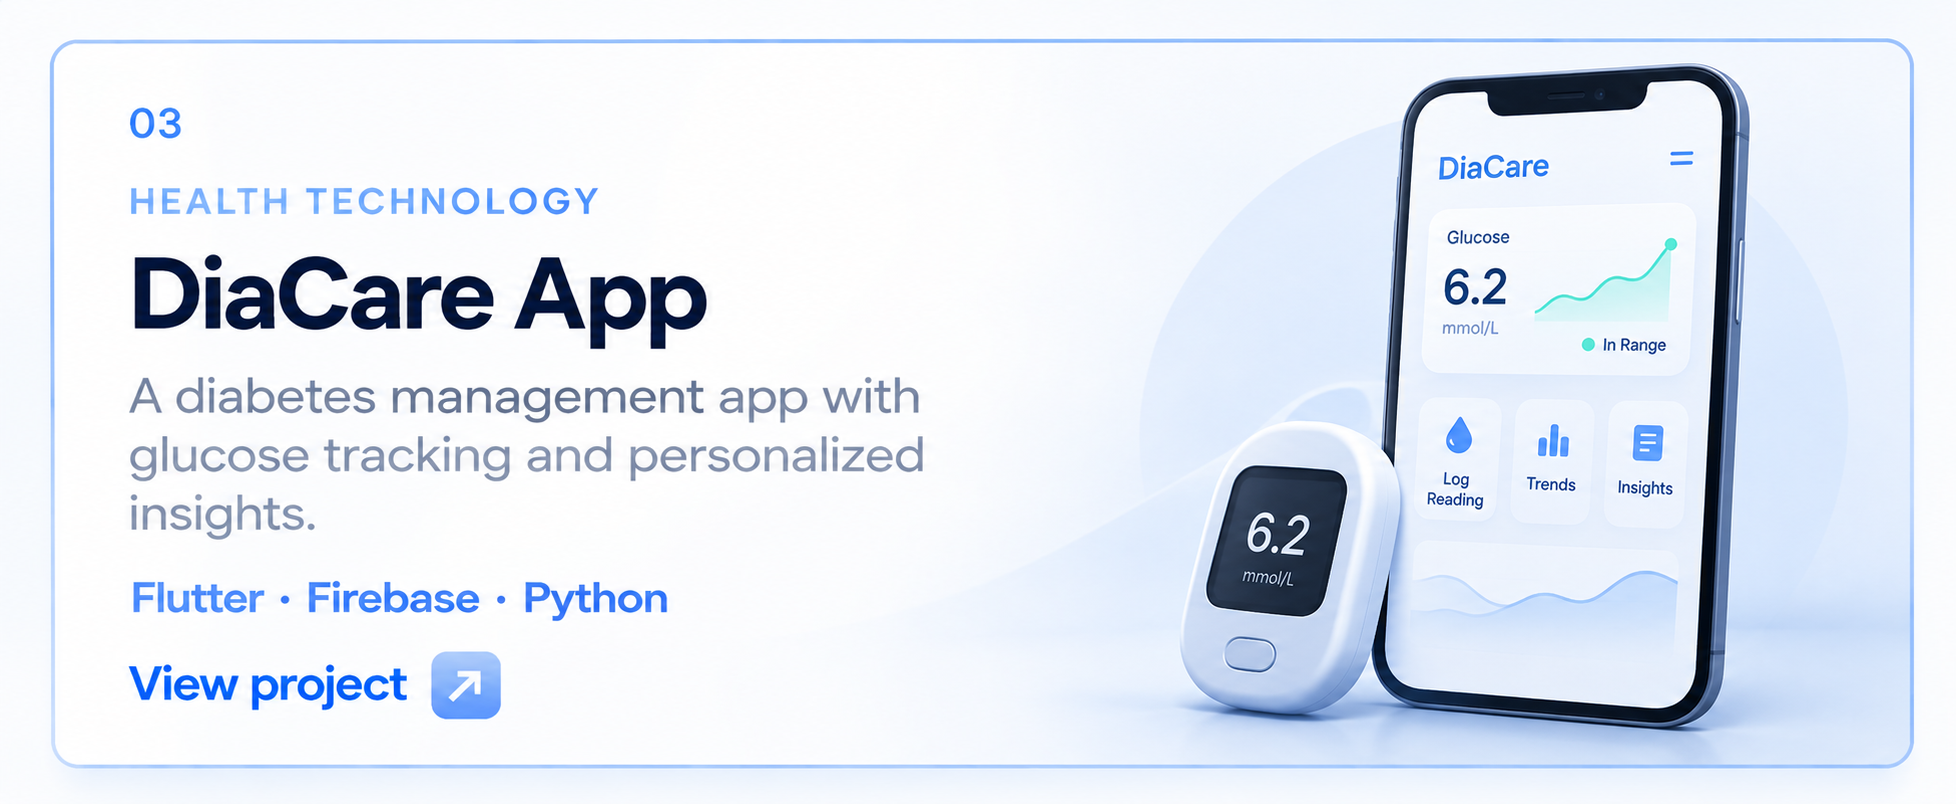
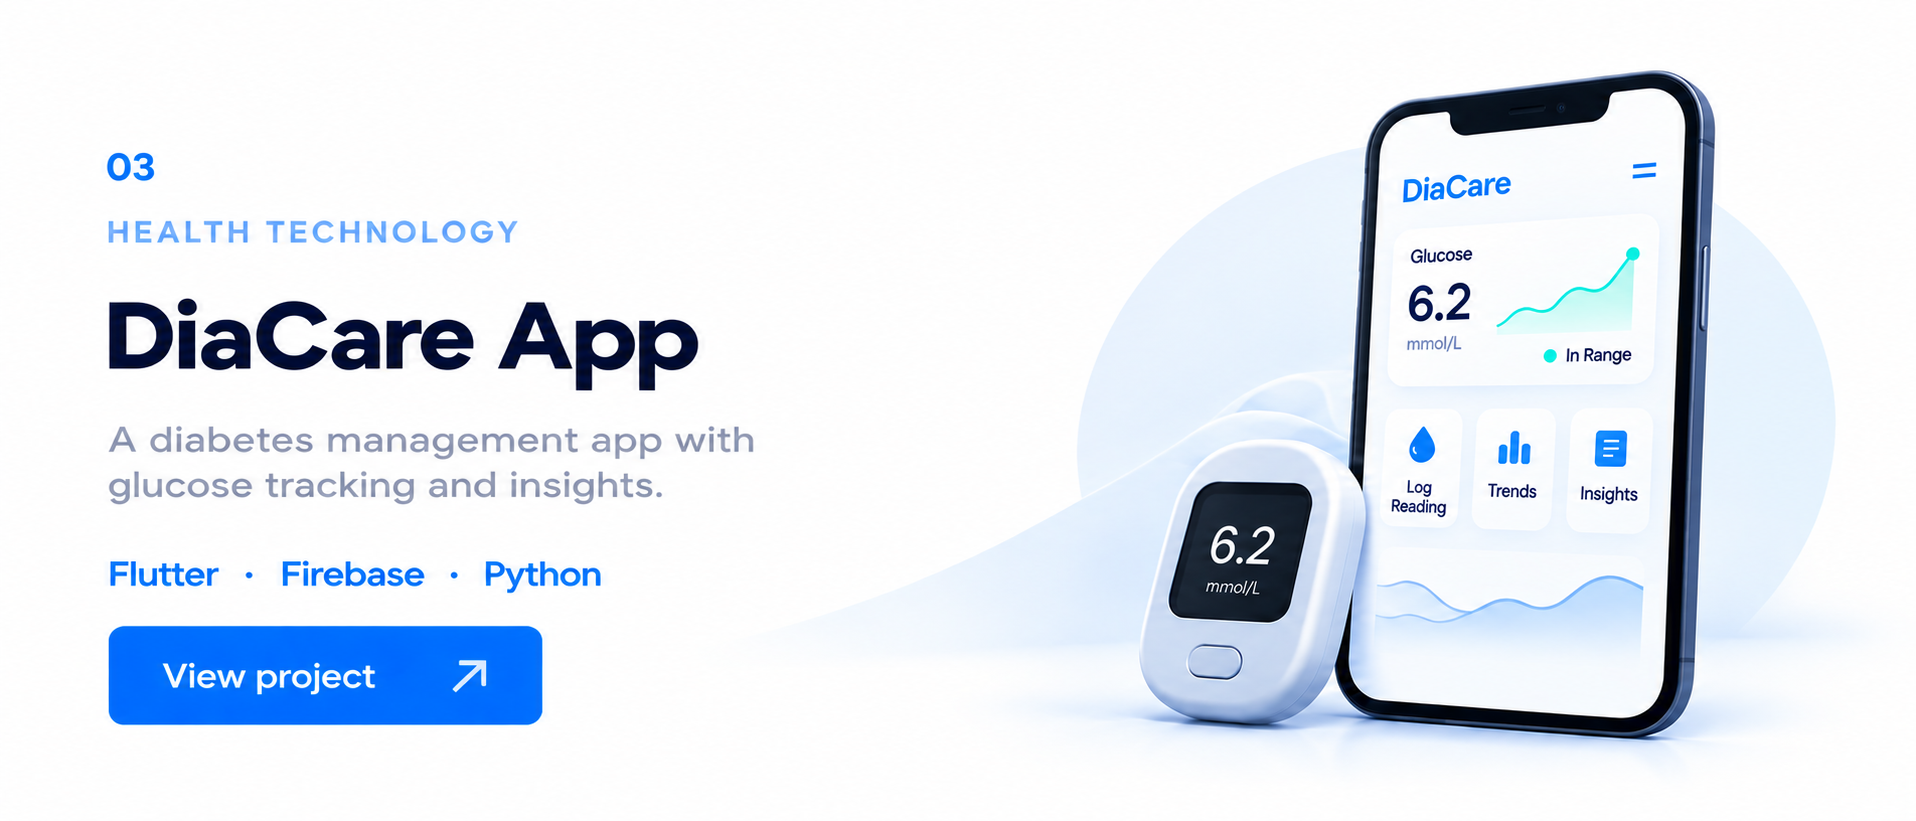
Use supplied project card artwork

Changed region(s): [[0.0308, 0.0311, 0.9854, 0.9639], [0.0308, 0.1244, 0.4927, 0.9017]]

diff --git a/index.html b/index.html
@@ -27,7 +27,7 @@
     @media(max-width:380px){.hero{padding:26px 22px}.caption{font-size:.7rem}.availability{font-size:.78rem}.link-copy small{font-size:.72rem}}
     @media(prefers-reduced-motion:reduce){.link,.project{transition:none}}
   </style>
-  <link rel="stylesheet" href="design.css">
+  <link rel="stylesheet" href="design.css?v=2">
 </head>
 <body>
   <main class="shell">
@@ -48,10 +48,10 @@
         <a class="link" href="mailto:tansari7@uwo.ca"><span class="icon email" aria-hidden="true">@</span><span class="link-copy">Email me<small>tansari7@uwo.ca</small></span><span class="arrow" aria-hidden="true">↗</span></a>
       </div></section>
       <section class="work-section" aria-labelledby="work"><div class="work-header"><h2 class="section-title" id="work">Selected work</h2></div><div class="projects">
-        <a class="project image-button" href="https://github.com/Tansari2004/financial-crime-analytics" target="_blank" rel="noopener noreferrer"><img src="financial-crime-button.png?v=945e297c" alt="View Financial Crime Analytics project: ranking suspicious transactions for review using Python, SQL and scikit-learn" width="1915" height="821" loading="lazy" decoding="async"></a>
-        <a class="project image-button" href="https://github.com/Tansari2004/predictive-maintenance-classifier" target="_blank" rel="noopener noreferrer"><img src="predictive-maintenance-button.png" alt="View Predictive Maintenance project: failure prediction on 10,000 AI4I records using Python and scikit-learn" width="1958" height="803" loading="lazy" decoding="async"></a>
-        <a class="project image-button" href="https://diacare.health" target="_blank" rel="noopener noreferrer"><img src="diacare-button.png" alt="Visit the DiaCare app website" width="1956" height="804" loading="lazy" decoding="async"></a>
-        <a class="project image-button" href="https://github.com/Tansari2004/diacare-nlp" target="_blank" rel="noopener noreferrer"><img src="diacare-nlp-button.png" alt="View DiaCare NLP Triage project" width="1958" height="803" loading="lazy" decoding="async"></a>
+        <a class="project image-button" href="https://github.com/Tansari2004/financial-crime-analytics" target="_blank" rel="noopener noreferrer"><img src="financial-crime-button.png?v=2" alt="View Financial Crime Analytics project: ranking suspicious transactions for review using Python, SQL and scikit-learn" width="1916" height="821" loading="lazy" decoding="async"></a>
+        <a class="project image-button" href="https://github.com/Tansari2004/predictive-maintenance-classifier" target="_blank" rel="noopener noreferrer"><img src="predictive-maintenance-button.png?v=2" alt="View Predictive Maintenance project: failure prediction on 10,000 AI4I records using Python and scikit-learn" width="1915" height="821" loading="lazy" decoding="async"></a>
+        <a class="project image-button" href="https://diacare.health" target="_blank" rel="noopener noreferrer"><img src="diacare-button.png?v=2" alt="Visit the DiaCare app website" width="1916" height="821" loading="lazy" decoding="async"></a>
+        <a class="project image-button" href="https://github.com/Tansari2004/diacare-nlp" target="_blank" rel="noopener noreferrer"><img src="diacare-nlp-button.png?v=2" alt="View DiaCare NLP Triage project" width="1915" height="821" loading="lazy" decoding="async"></a>
       </div></section>
     </div>
     <footer><span>London, Ontario, Canada</span><a href="mailto:tansari7@uwo.ca">Get in touch ↗</a></footer>

diff --git a/design.css b/design.css
@@ -350,10 +350,6 @@ img,svg{max-width:100%}
 .project.image-button{border:1px solid #cadcf3;border-radius:14px;box-shadow:0 10px 24px -20px #20487970;background:#f7faff;overflow:hidden}
 .project.image-button>img{display:block;width:100%;height:auto;max-width:100%;object-fit:contain;background:#f7faff;border-radius:0}
 .project.image-button:hover{border-color:#79a9ec;box-shadow:0 16px 30px -20px #20487980;transform:translateY(-2px)}
-/* Show more of the white surface in the Financial Crime artwork. The image
-   is cropped proportionally; its text and illustration keep their shape. */
-.project.image-button:first-child{position:relative;aspect-ratio:1875 / 656}
-.project.image-button:first-child>img{position:absolute;top:50%;left:50%;width:102.14%;max-width:none;height:auto;transform:translate(-50%,-50%)}
 @media(max-width:600px){
   .projects{grid-template-columns:minmax(0,1fr);gap:12px}
   .project.image-button{border-radius:11px}
